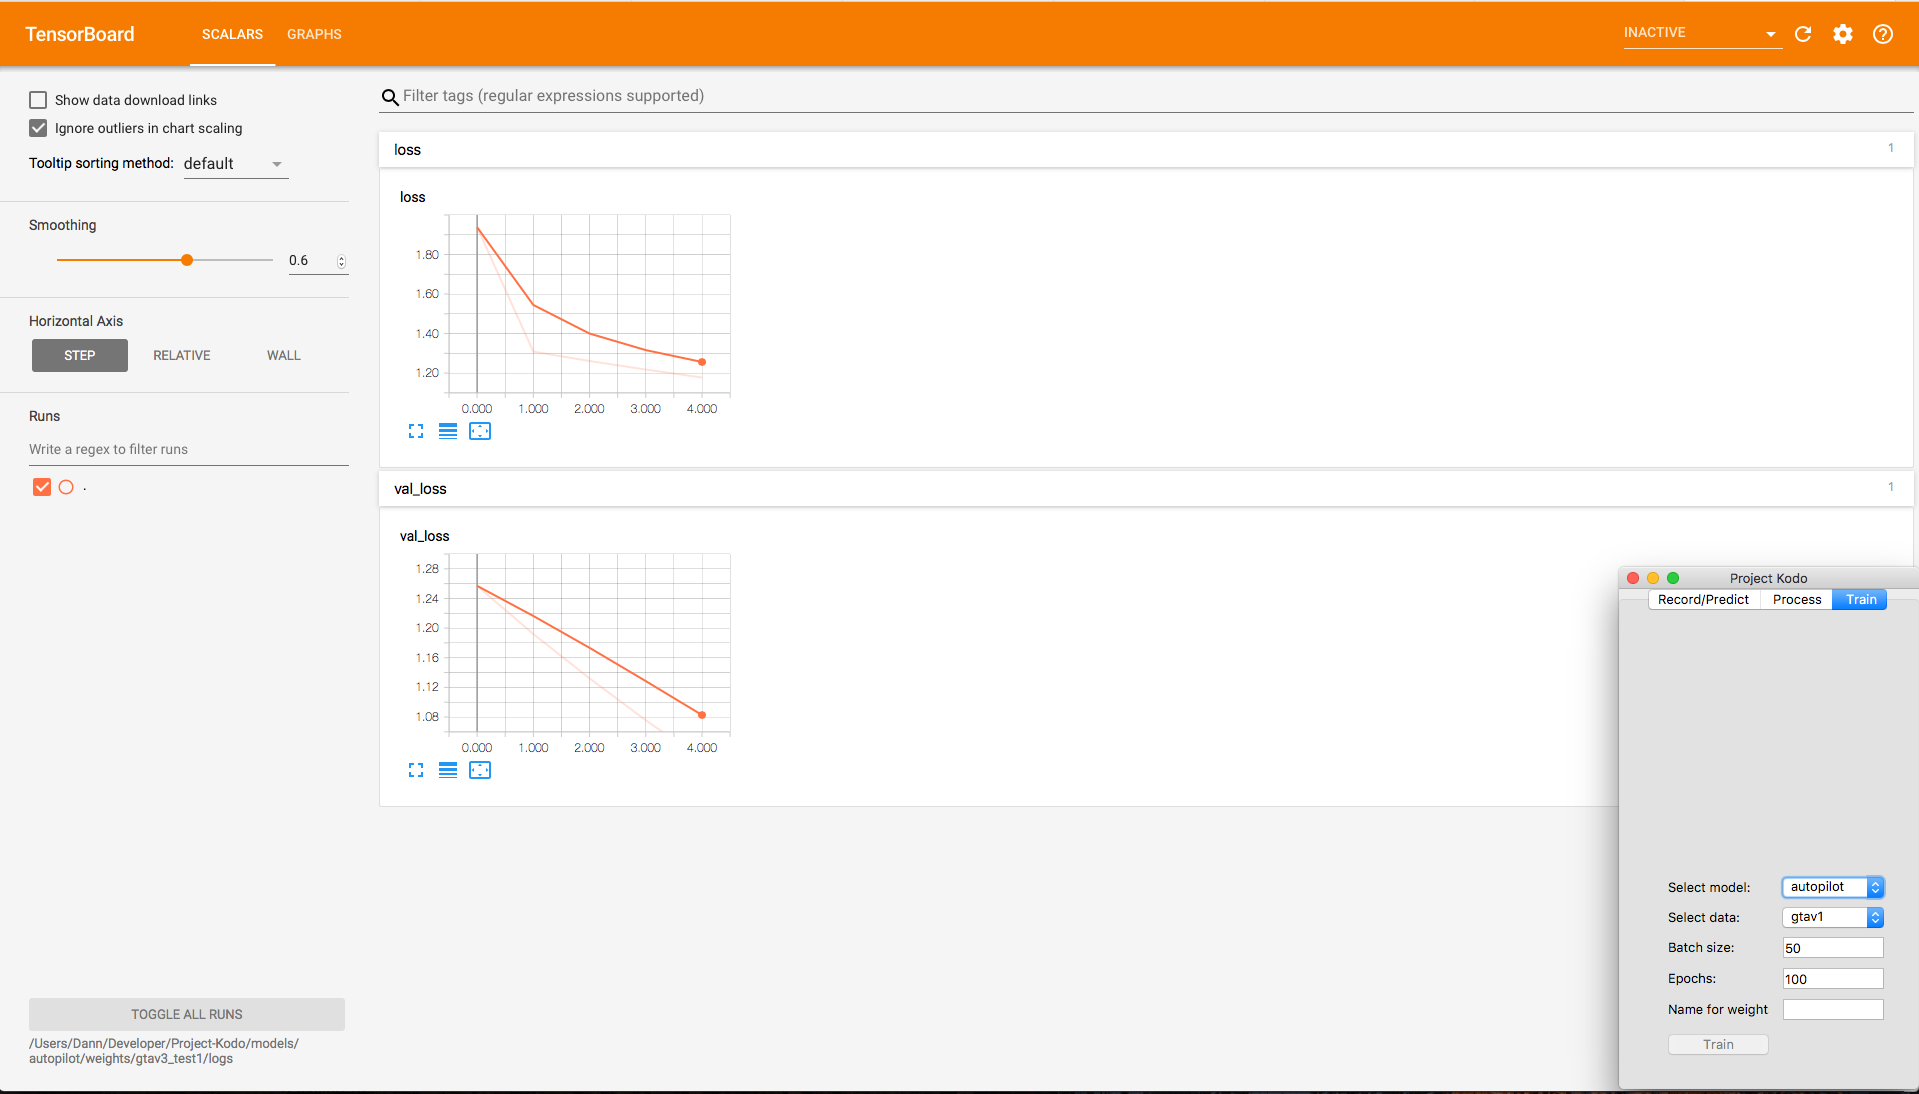
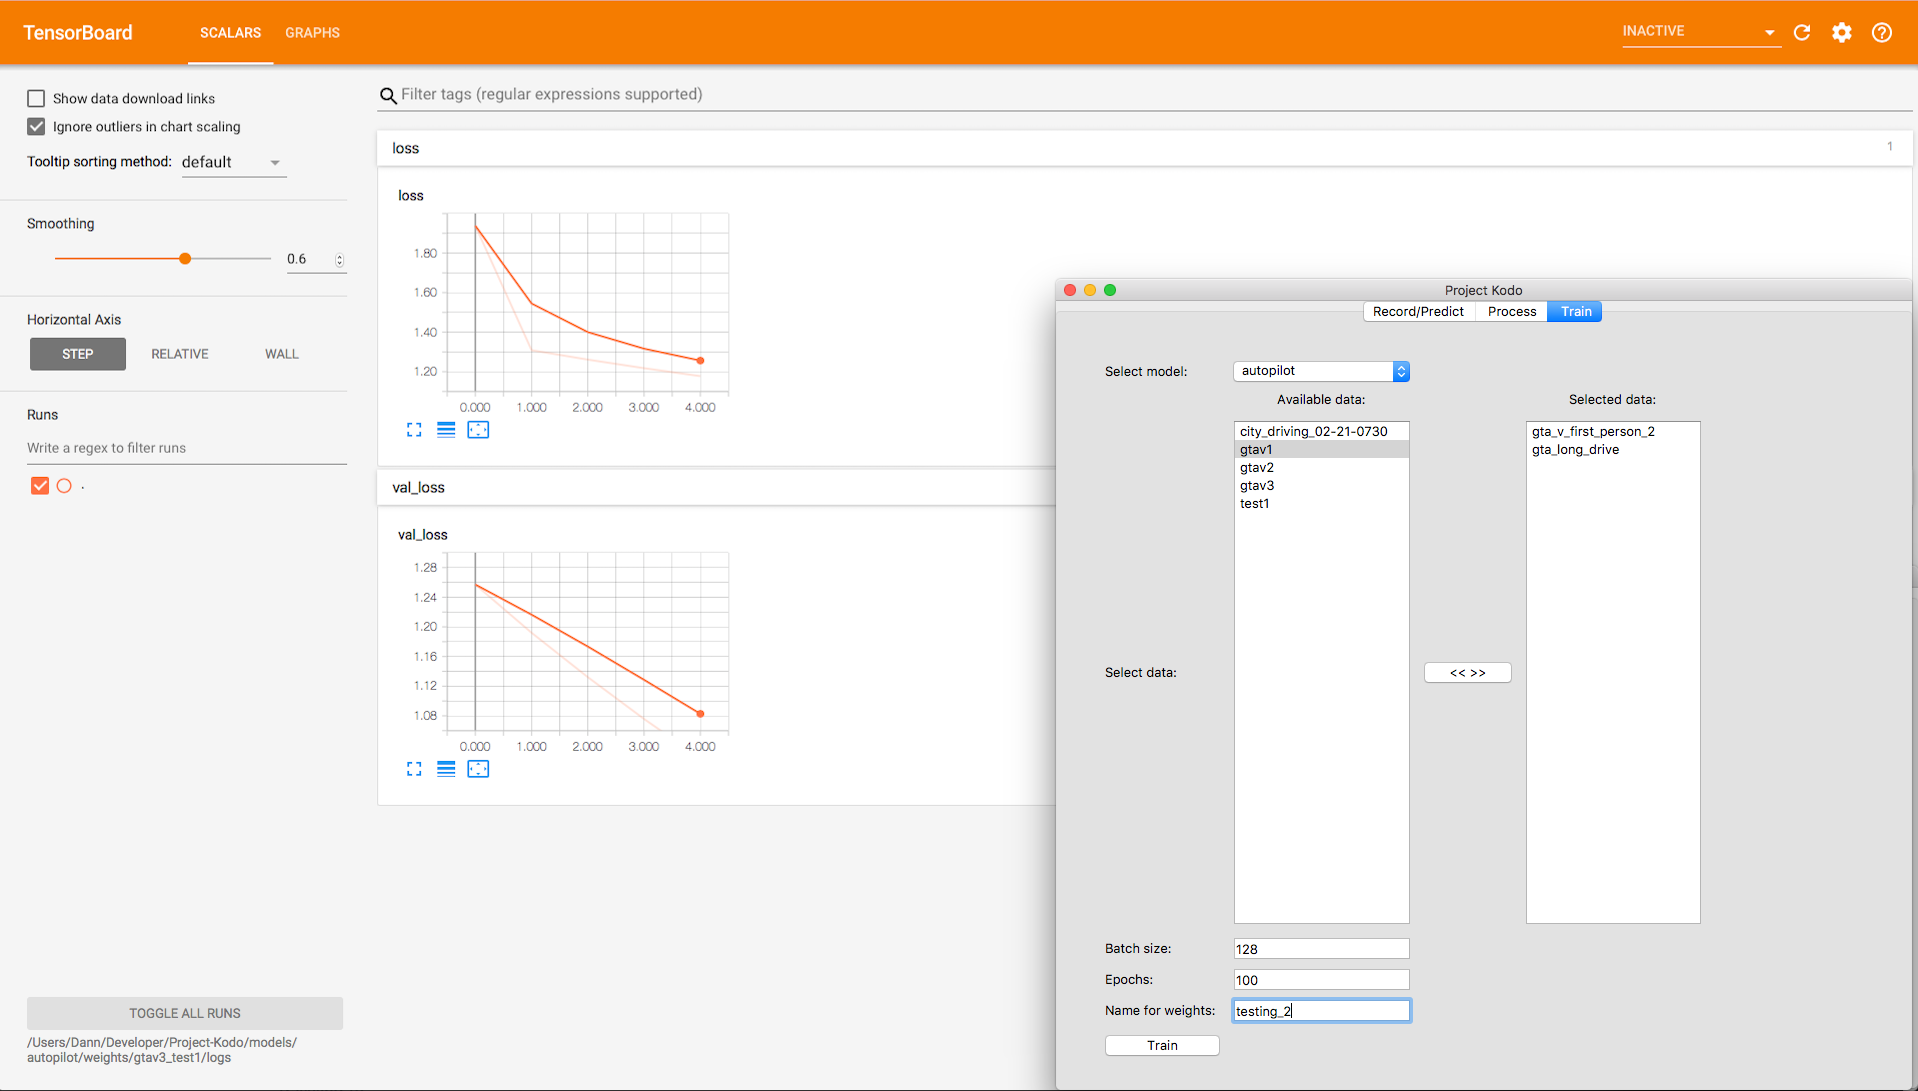
Updated training GUI images

diff --git a/README.md b/README.md
@@ -9,13 +9,8 @@ The model was trained on about an hour of training data, which was collected by 
 
 As can be seen, the agent does make some mistakes. Still, it seems to be able to recover surprisingly well, considering that the training data consists of fairly "clean" driving. Future work includes adding traffic and pedestrians to the mix, and recording more training data to get a more accurate model.
  
-<<<<<<< Updated upstream
  #### Video:
 [![Video of autonomous driving](https://img.youtube.com/vi/hISzqO2uPwo/0.jpg)](https://www.youtube.com/watch?v=hISzqO2uPwo)
-
-=======
-![Kodo.gif](screenshots/kodo.gif)
->>>>>>> Stashed changes
 
 ## Usage
 In its current state, the GUI is meant to simply aid the training process by providing a quick interface. It's quite ugly and it WILL break if invalid data is provided. That being said, I've tried to remove obvious sources of user error, and a user with some knowledge of the underlying process should be able to use the program without any problems.
